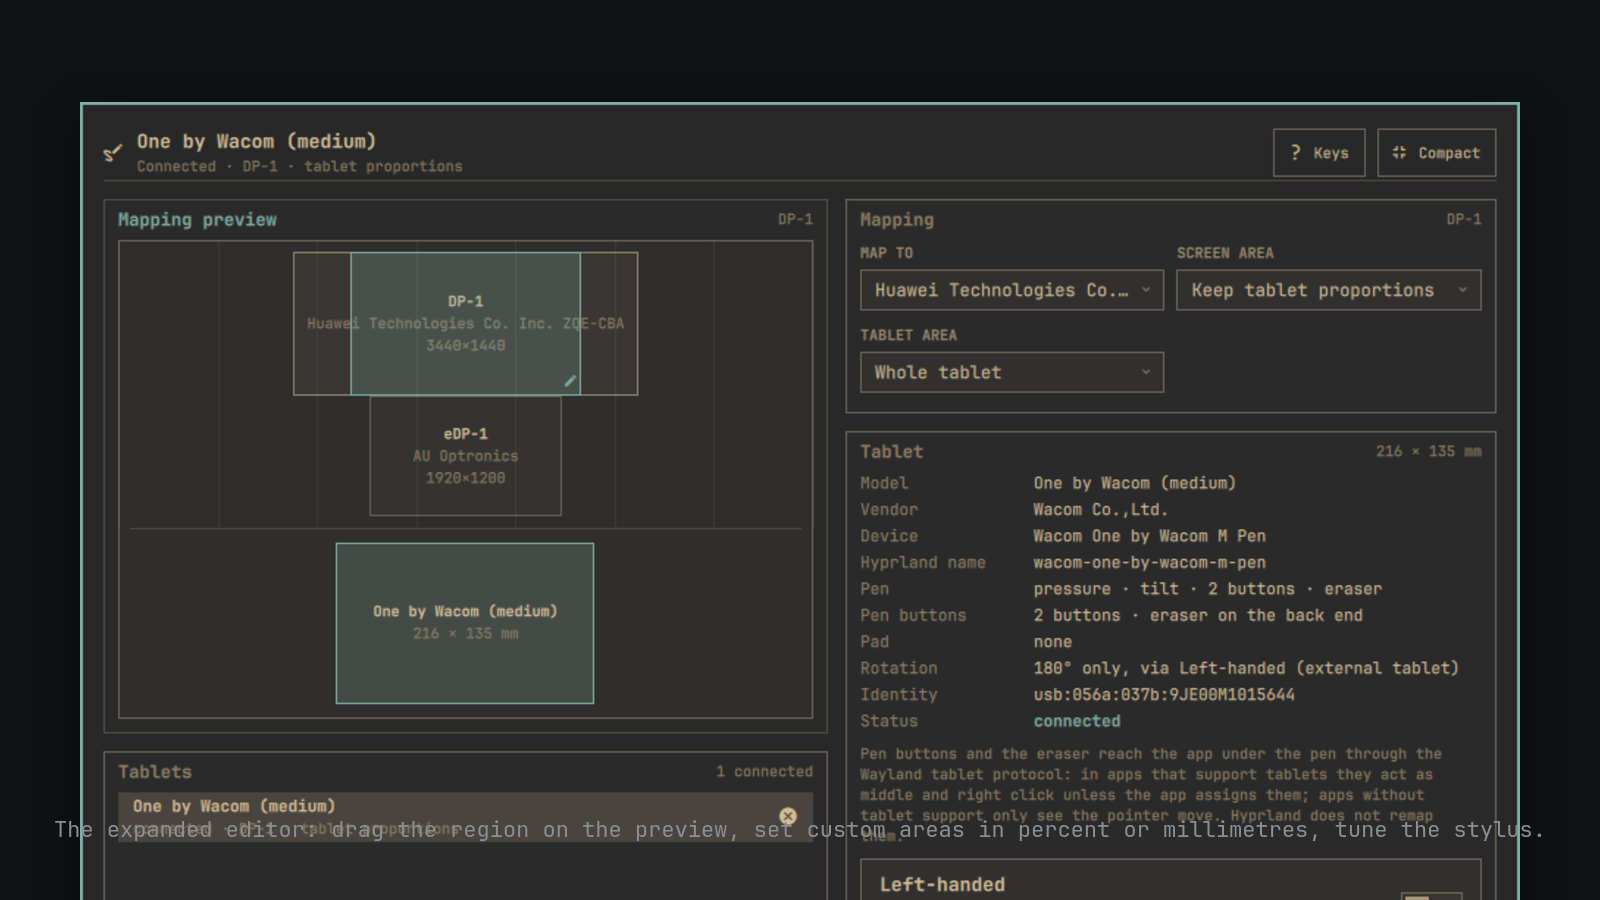
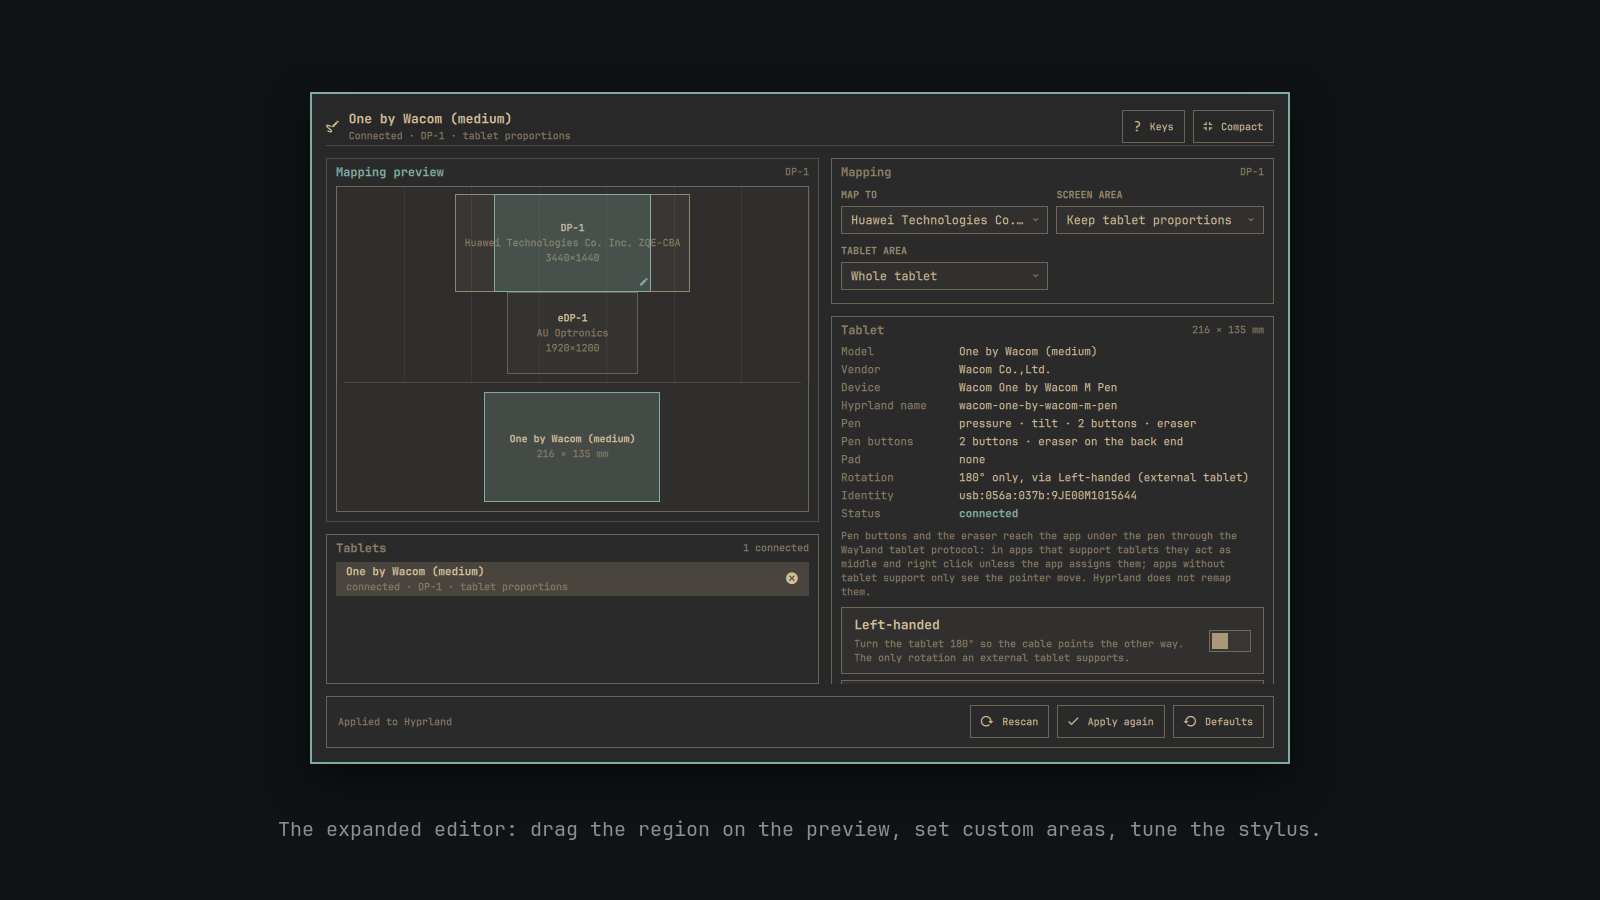
Create the update-check stamp on first run
touch --no-dereference never creates a missing file, so on every fresh
install the throttle stamp failed to appear, the check exited early and
the panel never offered an update. Found by installing from GitHub with
omarchy plugin add rather than a copied tree. Also fixes the editor
social card, which overflowed its canvas.

Claude-Session: https://claude.ai/code/session_01PV8SEKa3ioSBF8ng5Y4rPM

diff --git a/tests/model.test.js b/tests/model.test.js
@@ -453,6 +453,10 @@ test("the plugin update check is throttled, refuses symlinked stamps, and update
   assert.match(command[2], /\[ ! -L "\$stamp" \] \|\| exit 6/)
   assert.match(command[2], /exit 10/)
   assert.match(command[2], /find "\$stamp" -newermt "-\$2 hours"/)
+  // touch --no-dereference does not create a missing file, which silently
+  // broke the check on every fresh install.
+  assert.doesNotMatch(command[2], /touch/)
+  assert.match(command[2], /\(umask 077; : > "\$stamp"\)/)
   assert.deepEqual(Model.pluginUpdateCommand("io.github.alxcrt.drawing-tablet"), ["omarchy", "plugin", "update", "io.github.alxcrt.drawing-tablet", "--yes"])
   assert.equal(Model.pluginUpdated("Updated io.github.alxcrt.drawing-tablet."), true)
   assert.equal(Model.pluginUpdated("io.github.alxcrt.drawing-tablet is up to date."), false)

diff --git a/Model.js b/Model.js
@@ -1308,7 +1308,9 @@ function pluginUpdateCheckCommand(pluginId, throttleHours) {
     '[ ! -L "$stamp" ] || exit 6',
     'if [ -z "$(find "$stamp" -newermt "-$2 hours" 2>/dev/null)" ]; then',
     '  git -C "$checkout" fetch --quiet origin HEAD 2>/dev/null || exit 4',
-    '  (umask 077; touch --no-dereference -- "$stamp") || exit 6',
+    // Truncating creates the stamp when missing and bumps its mtime when
+    // not; the symlink check above already refused anything but a plain file.
+    '  (umask 077; : > "$stamp") || exit 6',
     "fi",
     'local_head=$(git -C "$checkout" rev-parse HEAD 2>/dev/null) || exit 5',
     'remote_head=$(git -C "$checkout" rev-parse FETCH_HEAD 2>/dev/null) || exit 5',
